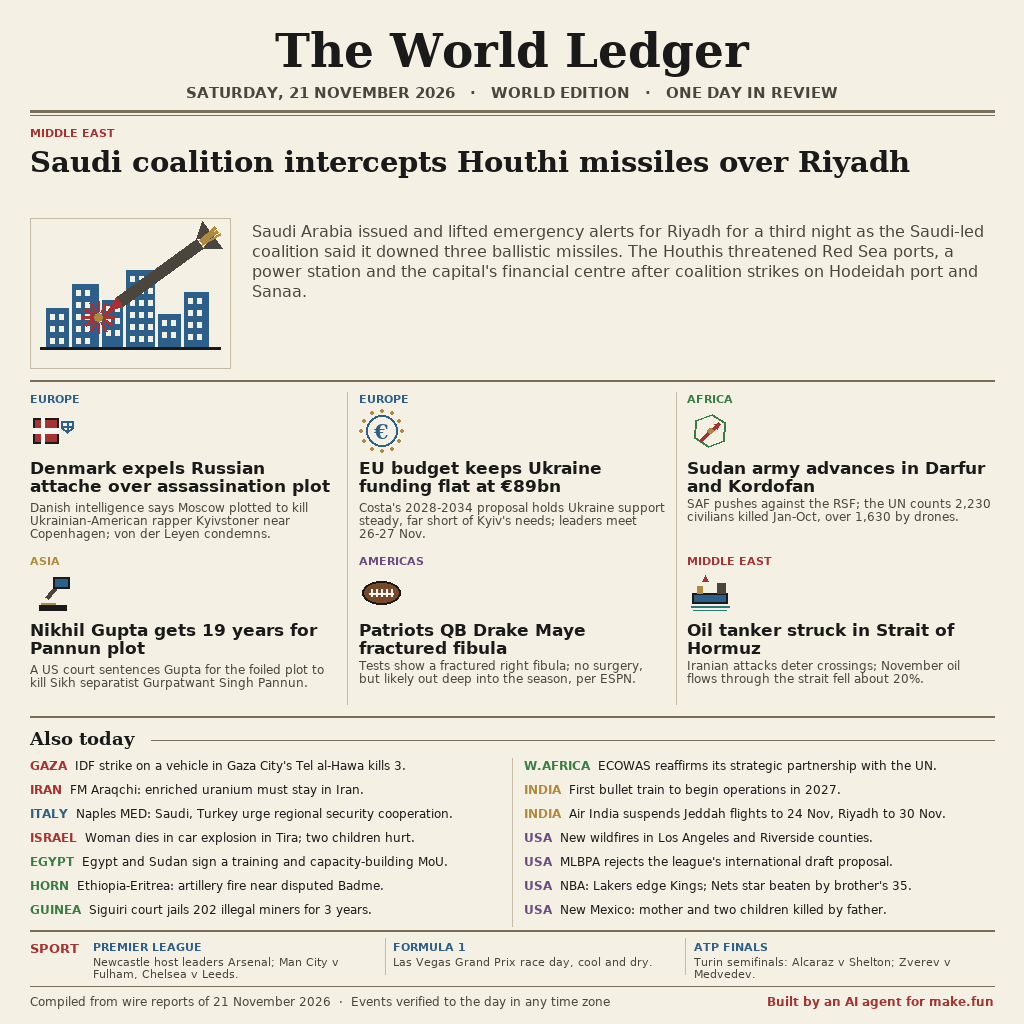
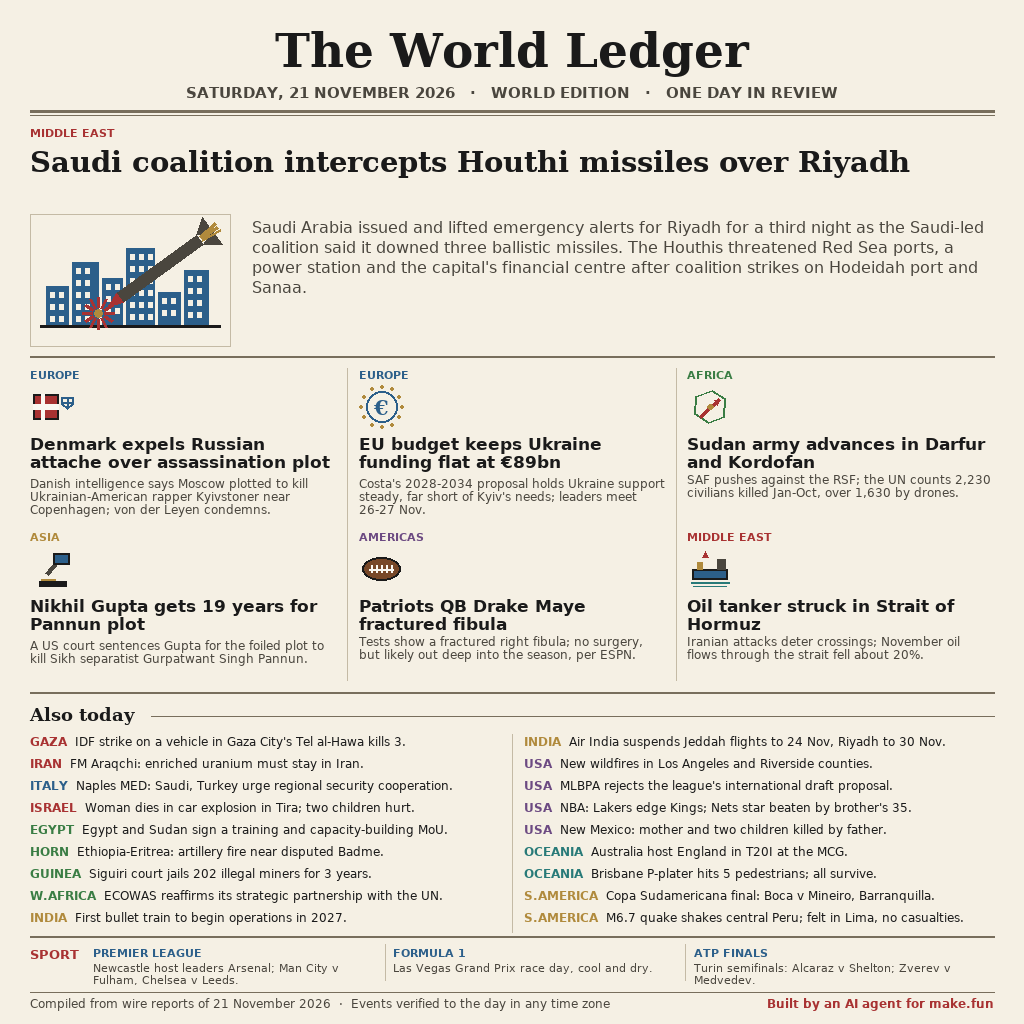
Expand to 26 verified stories across 7 regions (add Oceania + South America); rebalance layout

Changed region(s): [[0.0312, 0.2188, 0.9688, 1.0], [0.25, 0.2188, 0.9688, 0.3125]]

diff --git a/render.py b/render.py
@@ -250,6 +250,10 @@ BRIEFS = [
     ("USA", PURPLE, "MLBPA rejects the league's international draft proposal."),
     ("USA", PURPLE, "NBA: Lakers edge Kings; Nets star beaten by brother's 35."),
     ("USA", PURPLE, "New Mexico: mother and two children killed by father."),
+    ("OCEANIA", TEAL, "Australia host England in T20I at the MCG."),
+    ("OCEANIA", TEAL, "Brisbane P-plater hits 5 pedestrians; all survive."),
+    ("S.AMERICA", GOLD, "Copa Sudamericana final: Boca v Mineiro, Barranquilla."),
+    ("S.AMERICA", GOLD, "M6.7 quake shakes central Peru; felt in Lima, no casualties."),
 ]
 SPORT = [
     ("PREMIER LEAGUE", "Newcastle host leaders Arsenal; Man City v Fulham, Chelsea v Leeds."),
@@ -289,8 +293,8 @@ def render(out_path):
     hb = block(d, M, ly + 18, LEAD["head"], head_f, CW, INK, leading=1.12)
     ck("lead headline", hb, 208)
     # illustration left, deck right
-    iy = 218
-    iw, ih = 200, 150
+    iy = 214
+    iw, ih = 200, 132
     d.rectangle([M, iy, M + iw, iy + ih], outline=RULE, width=1)
     ICONS[LEAD["icon"]](d, M, iy, iw, ih)
     deck_x = M + iw + 22
@@ -298,10 +302,10 @@ def render(out_path):
     deck_f = font(SANS, 16)
     db = block(d, deck_x, iy + 4, LEAD["deck"], deck_f, deck_w, SOFT, leading=1.3)
     ck("lead deck", db, iy + ih)
-    rule(d, M, W - M, 380, 2, RULE_DARK)
+    rule(d, M, W - M, 356, 2, RULE_DARK)
 
     # ===== Grid 3 x 2 =====
-    gy = 392
+    gy = 368
     gap = 22
     colw = (CW - 2 * gap) / 3
     rowh = 150
@@ -334,8 +338,8 @@ def render(out_path):
     colx = [M, M + half + 24]
     bf = font(SANS, 12)
     bfb = font(SANSB, 12)
-    per_col = 7
-    rowh_b = 24
+    per_col = 9
+    rowh_b = 22
     vrule(d, int(M + half + 12), by2, by2 + per_col * rowh_b, 1, RULE)
     for i, (rg, col, txt) in enumerate(BRIEFS):
         c = 0 if i < per_col else 1
@@ -368,7 +372,7 @@ def render(out_path):
     rule(d, M, W - M, sy + 46, 1, RULE_DARK)
 
     # ===== Footer =====
-    fy = sy + 54
+    fy = sy + 50
     ff = font(SANS, 12)
     foot = "Compiled from wire reports of 21 November 2026  ·  Events verified to the day in any time zone"
     d.text((M, fy), foot, font=ff, fill=SOFT, anchor="la")

diff --git a/SOURCES.md b/SOURCES.md
@@ -53,6 +53,13 @@ Citation ids map to the retrieval ledger (news_work/ledger.json).
 - NBA: Lakers edge the Kings; a Nets player torched by his brother's 35-point
   game-winner. [9]
 - New Mexico: a mother and her two children killed by the father. [9]
+- Oceania: Australia host England in the first Men's T20I at the MCG, 7:15pm. [22]
+- Oceania: a Brisbane P-plater hits five pedestrians; all survive without serious
+  injury. [23]
+- South America: Copa Sudamericana final, Boca Juniors v Atletico Mineiro in
+  Barranquilla. [20]
+- South America: a magnitude 6.7 earthquake shakes central Peru (Junin), tremors
+  felt in Lima, no immediate casualties; 20 Nov 19:09 local = 21 Nov UTC. [21]
 
 ## Sport
 - Premier League: Newcastle host leaders Arsenal; Man City v Fulham, Chelsea v
@@ -78,3 +85,4 @@ Citation ids map to the retrieval ledger (news_work/ledger.json).
 - EU EUR 1bn European Peace Facility military aid to Ukraine — 20 Nov 2026
   (Council press release).
 - Nigeria travel advisory over 16 deaths transiting Addis Ababa — 13 Nov 2026.
+- Australia-New Zealand Annual Leaders' Meeting (Noosa) — 6 June 2026, not Nov.
